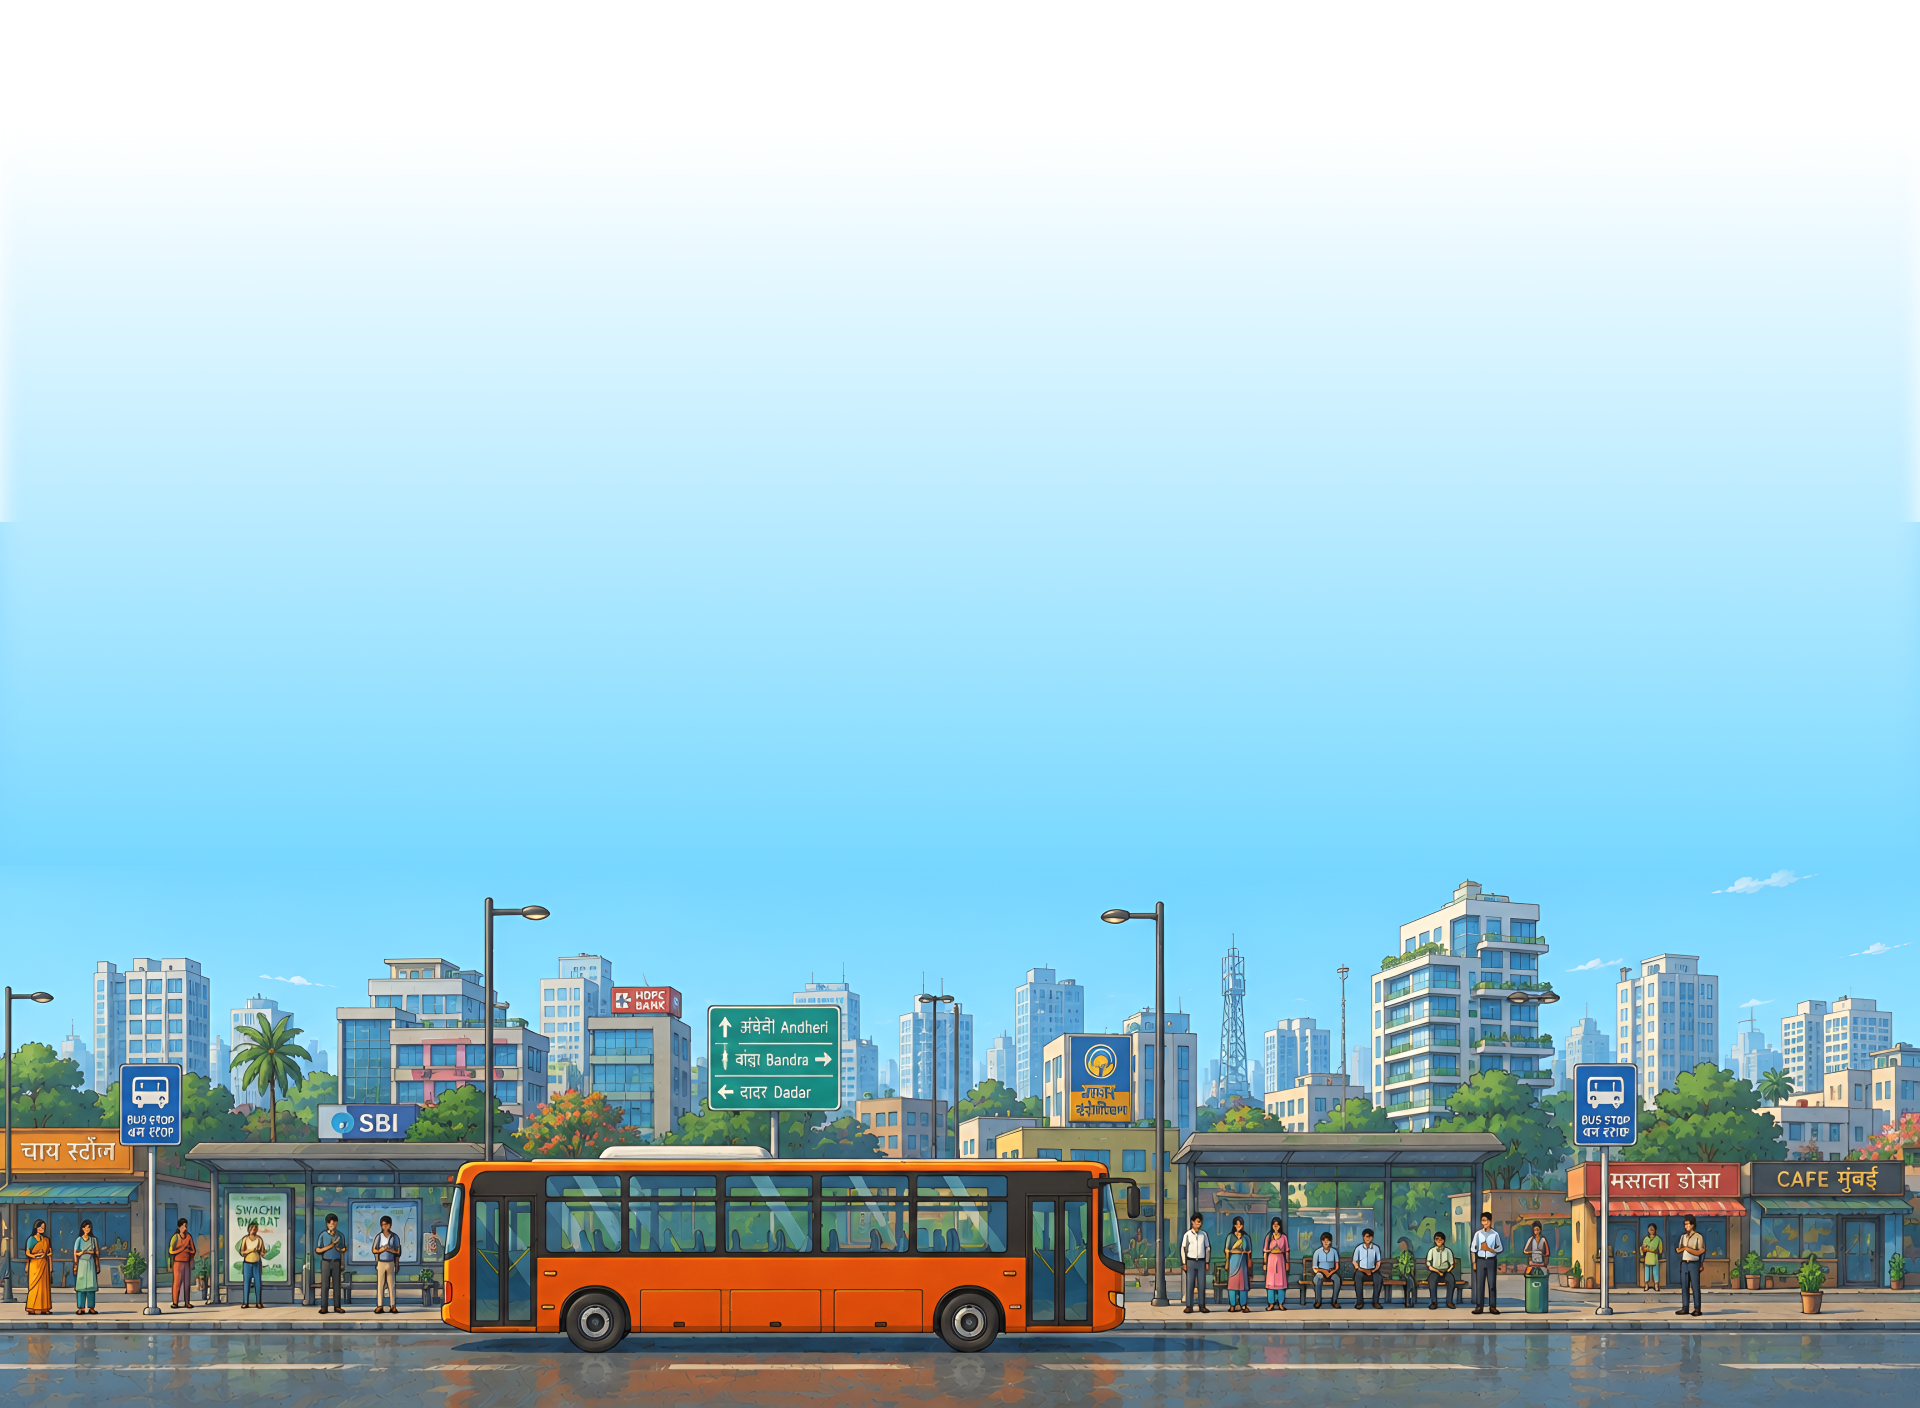
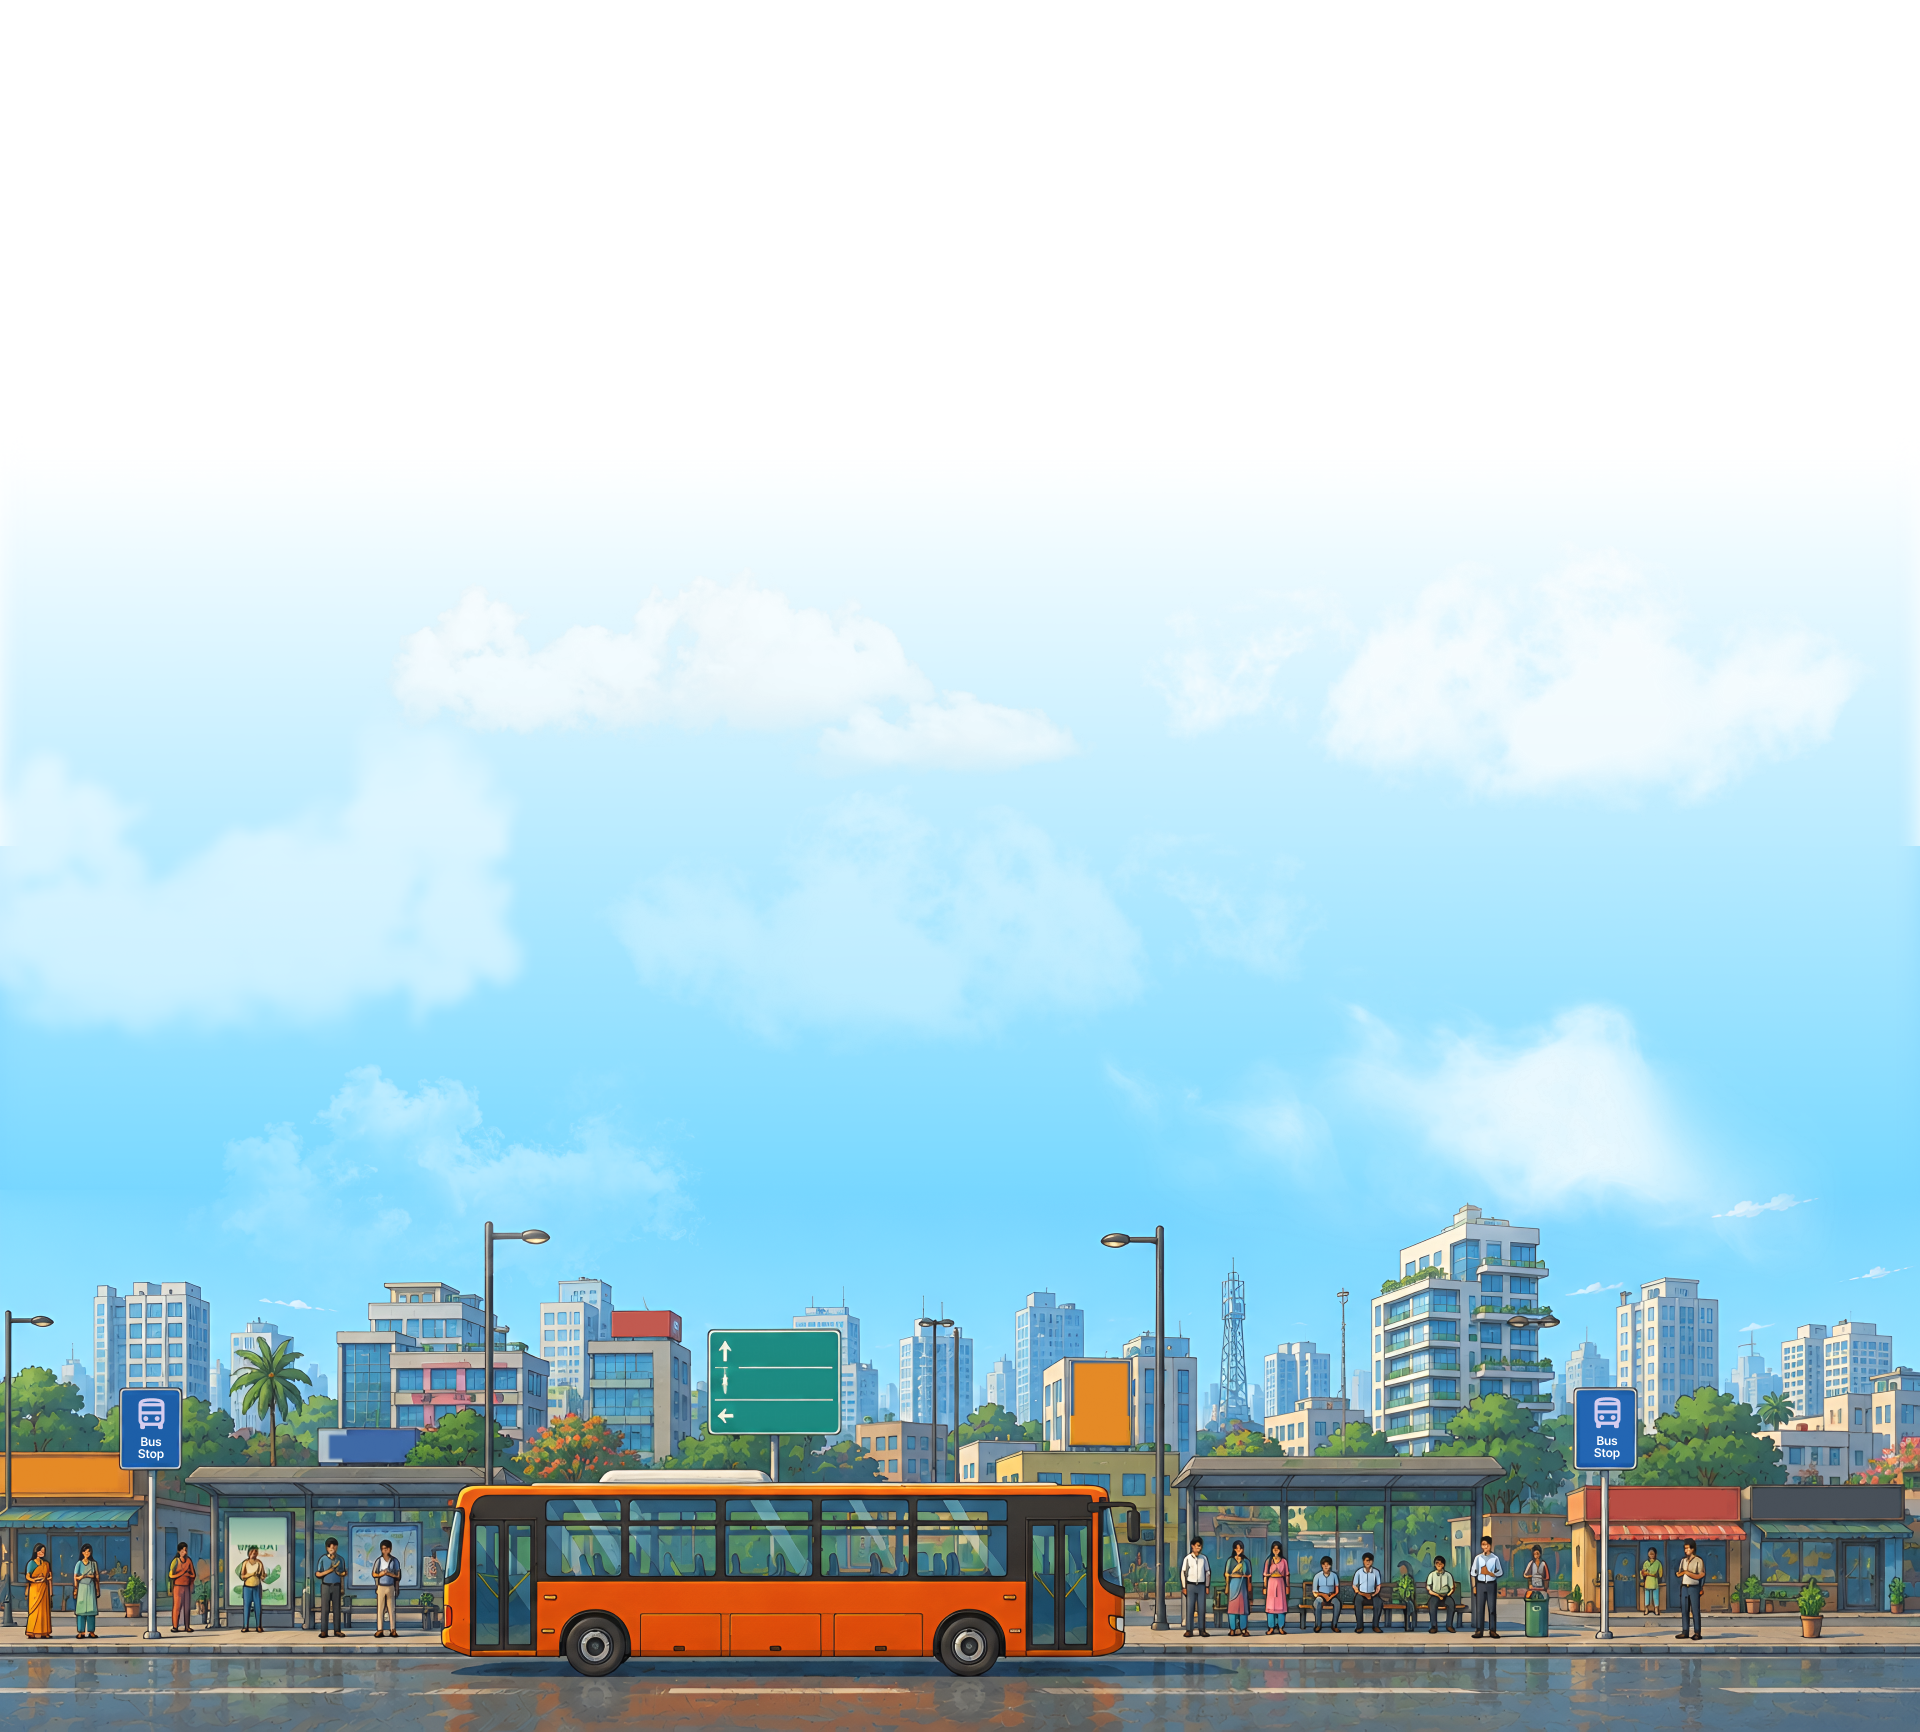
Update dark mode last section, flickering grid opacity, feature tab padding adjustments

diff --git a/index.html b/index.html
@@ -396,7 +396,7 @@
         .features-section {
             position: relative;
             width: 100%;
-            padding: 180px 0 220px;
+            padding: 220px 0 120px;
             background: #FFFFFF;
             display: flex;
             flex-direction: column;
@@ -818,11 +818,15 @@
             object-fit: cover;
         }
 
-        .bus-bg-container-wrapper {
+        .bus-bg-transit-overlay {
             position: absolute;
             top: 250px;
-            left: 50%;
-            transform: translateX(-50%);
+            left: 0;
+            width: 100%;
+            display: flex;
+            flex-direction: column;
+            align-items: center;
+            gap: 80px;
             z-index: 1;
         }
 
@@ -976,7 +980,7 @@
             position: relative;
             width: 100%;
             padding: 250px 0;
-            background: #FFFFFF;
+            background: linear-gradient(to bottom, #252C35, #051831);
             overflow: hidden;
             display: flex;
             flex-direction: column;
@@ -990,7 +994,7 @@
             width: 100%;
             height: 100%;
             z-index: 0;
-            opacity: 0.7;
+            opacity: 0.2;
             pointer-events: none;
         }
 
@@ -1352,28 +1356,10 @@
     <section class="bus-background-section">
         <img src="bus background.png" alt="Bus Background" class="bus-background-img">
 
-        <div class="bus-bg-container-wrapper">
-            <div class="bus-bg-container scroll-fade">
-                <div class="bus-bg-text-row scroll-fade">
-                    <div class="bus-bg-text-item">Minimizing total daily<br>operator cost by</div>
-                    <div class="bus-bg-text-item">Lowering operator cost by<br>due to vehicle utilization</div>
-                </div>
+        <div class="bus-bg-transit-overlay">
+            <h2 class="transit-role-heading scroll-fade">One Platform for Every Transit Role</h2>
 
-                <div class="bus-bg-numbers-row">
-                    <div class="bus-bg-number-item scroll-fade">~17%</div>
-                    <div class="bus-bg-number-item scroll-fade">~11%</div>
-                </div>
-            </div>
-        </div>
-    </section>
-
-    <!-- Transit Role Section -->
-    <section class="transit-role-section">
-        <canvas id="flickering-grid-canvas"></canvas>
-
-        <h2 class="transit-role-heading scroll-fade">One Platform for Every Transit Role</h2>
-
-        <div class="marquee-wrapper scroll-fade">
+            <div class="marquee-wrapper scroll-fade">
             <div class="marquee-track">
                 <!-- Card 1: Control Room Staff -->
                 <div class="transit-card">
@@ -1504,6 +1490,12 @@
                 </div>
             </div>
         </div>
+        </div>
+    </section>
+
+    <!-- Blank Section -->
+    <section class="transit-role-section">
+        <canvas id="flickering-grid-canvas"></canvas>
     </section>
 
     <script>
@@ -1810,11 +1802,11 @@
             const canvas = document.getElementById('flickering-grid-canvas');
             if (!canvas) return;
             const ctx = canvas.getContext('2d');
-            const section = document.querySelector('.transit-role-section');
+            const section = canvas.closest('section');
 
             const SQUARE_SIZE = 4;
             const GRID_GAP = 6;
-            const COLOR = '#6B7280';
+            const COLOR = '#ffffff';
             const MAX_OPACITY = 0.5;
             const FLICKER_CHANCE = 0.1;
             const STEP = SQUARE_SIZE + GRID_GAP;